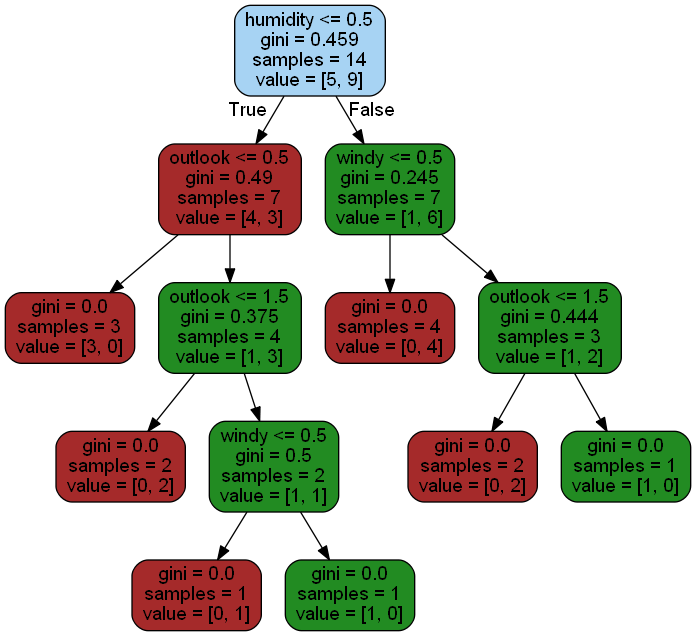
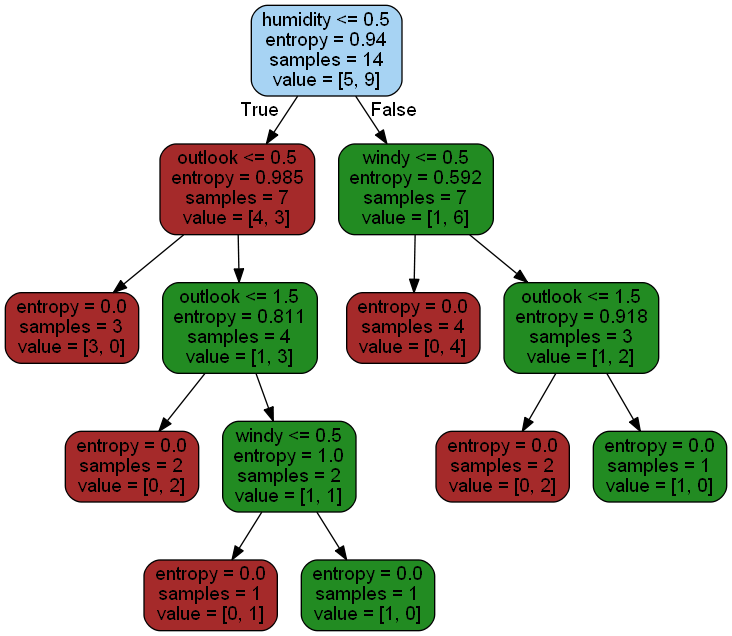
Quiz 5 Update

diff --git a/8-Decision_Tree/2-Example_Exercise/Tennis_tree_Ex.py b/8-Decision_Tree/2-Example_Exercise/Tennis_tree_Ex.py
@@ -112,7 +112,7 @@ import webbrowser
 tennis = pd.read_csv('tennis.csv')
 X = tennis_ex.values[:,:4]
 y = tennis_ex.values[:,4]
-clf = tree.DecisionTreeClassifier(random_state=11)
+clf = tree.DecisionTreeClassifier(criterion = 'entropy', random_state=11)
 clf = clf.fit(X, y)
 
 dot_data = tree.export_graphviz(clf,
@@ -138,8 +138,7 @@ for edge in edges:
 graph.write_png('tennis.png')
 graph.write_svg('tennis.svg')
 
-
-#X_test, X_train, y_test, y_train = train_test_split(X, y, test_size=0.2, random_state=100)
+# The best feature is humidity.
 
 
 
